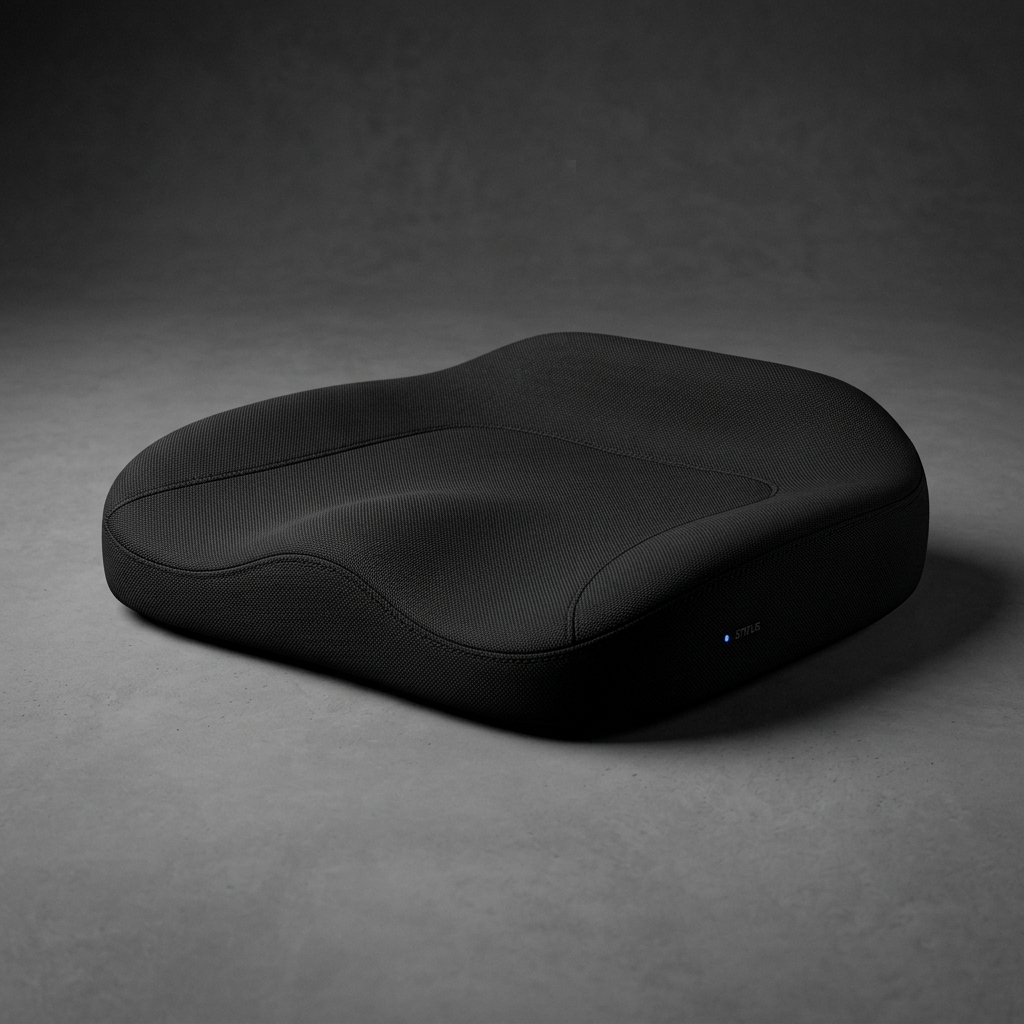
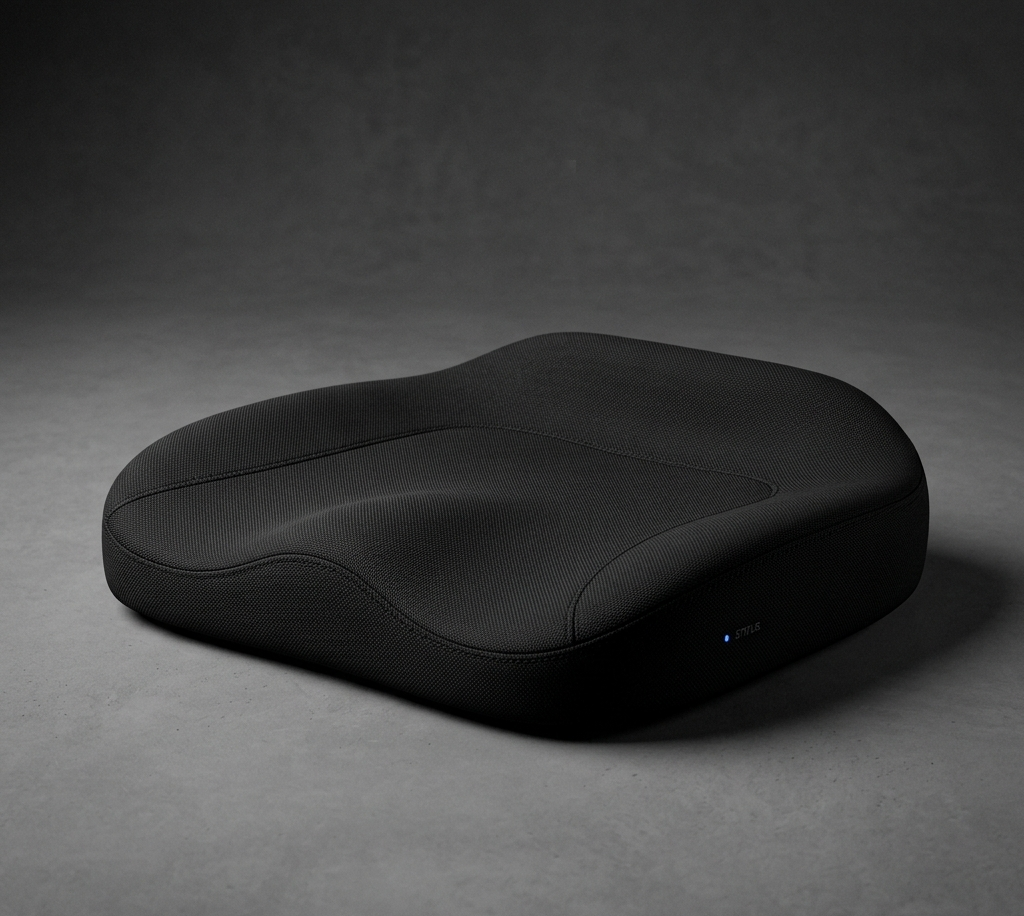
Update technical specs: 3x3 sensor matrix, 9-posture recognition, and real-time App feedback

diff --git a/src/components/CircularFeatures.tsx b/src/components/CircularFeatures.tsx
@@ -12,8 +12,8 @@ const products = [
 
 const features = [
   {
-    title: "AI Posture Detection",
-    description: "Our proprietary machine learning model analyzes 16 sensor points to provide pinpoint accuracy in real-time.",
+    title: "9-Posture Recognition",
+    description: "Our advanced AI analyzes data from a high-precision 3x3 sensor matrix to accurately identify 9 distinct sitting postures.",
     icon: Brain,
     color: "text-blue-500",
     glow: "rgba(59, 130, 246, 0.5)"
@@ -26,8 +26,8 @@ const features = [
     glow: "rgba(6, 182, 212, 0.5)"
   },
   {
-    title: "Seamless App Sync",
-    description: "Get real-time feedback and long-term health trends right on your mobile device via Bluetooth 5.0.",
+    title: "Real-time App Feedback",
+    description: "Receive instant posture corrections and long-term health trends directly through our dedicated mobile application.",
     icon: Smartphone,
     color: "text-indigo-500",
     glow: "rgba(99, 102, 241, 0.5)"